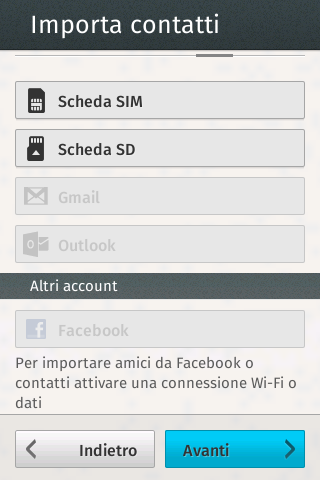
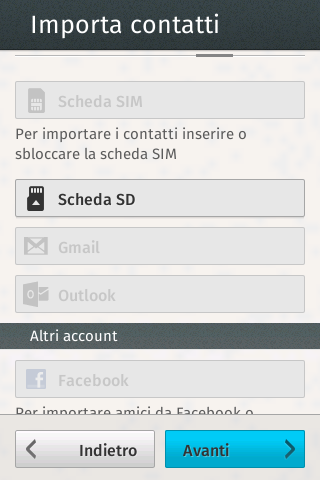
Update (it updated by hg repo)

Changed region(s): [[0.0, 0.1562, 1.0, 0.875], [0.5, 0.8438, 0.75, 0.875], [0.375, 0.8438, 0.4688, 0.875]]

diff --git a/apps_communications_ftu_it.html b/apps_communications_ftu_it.html
@@ -313,7 +313,7 @@
           <td class='diff'>
           </td>
         </tr>
-        <tr class='ok'>
+        <tr class='changed'>
           <td class='id'>import_contacts</td>
           <td class='new'>
             <a href='screenshots/it/apps/communications/ftu/import_contacts.jpeg'>
@@ -326,6 +326,9 @@
             </a>
           </td>
           <td class='diff'>
+            <a href='screenshots/it/apps/communications/ftu/import_contacts.diff.jpeg'>
+              <img src='screenshots/it/apps/communications/ftu/import_contacts.diff.jpeg'/>
+            </a>
           </td>
         </tr>
         <tr class='ok'>

diff --git a/index.html b/index.html
@@ -35,7 +35,7 @@
         </tr>
         <tr>
           <th class='apps'>apps/communications/ftu</th>
-          <td class='ok'><a href=apps_communications_ftu_it.html>OK</a></td>
+          <td class='changed'><a href=apps_communications_ftu_it.html>CHANGED</a></td>
           <td class='changed'><a href=apps_communications_ftu_en-US.html>CHANGED</a></td>
           <td class='changed'><a href=apps_communications_ftu_cs.html>CHANGED</a></td>
           <td class='changed'><a href=apps_communications_ftu_sr-Cyrl.html>CHANGED</a></td>
